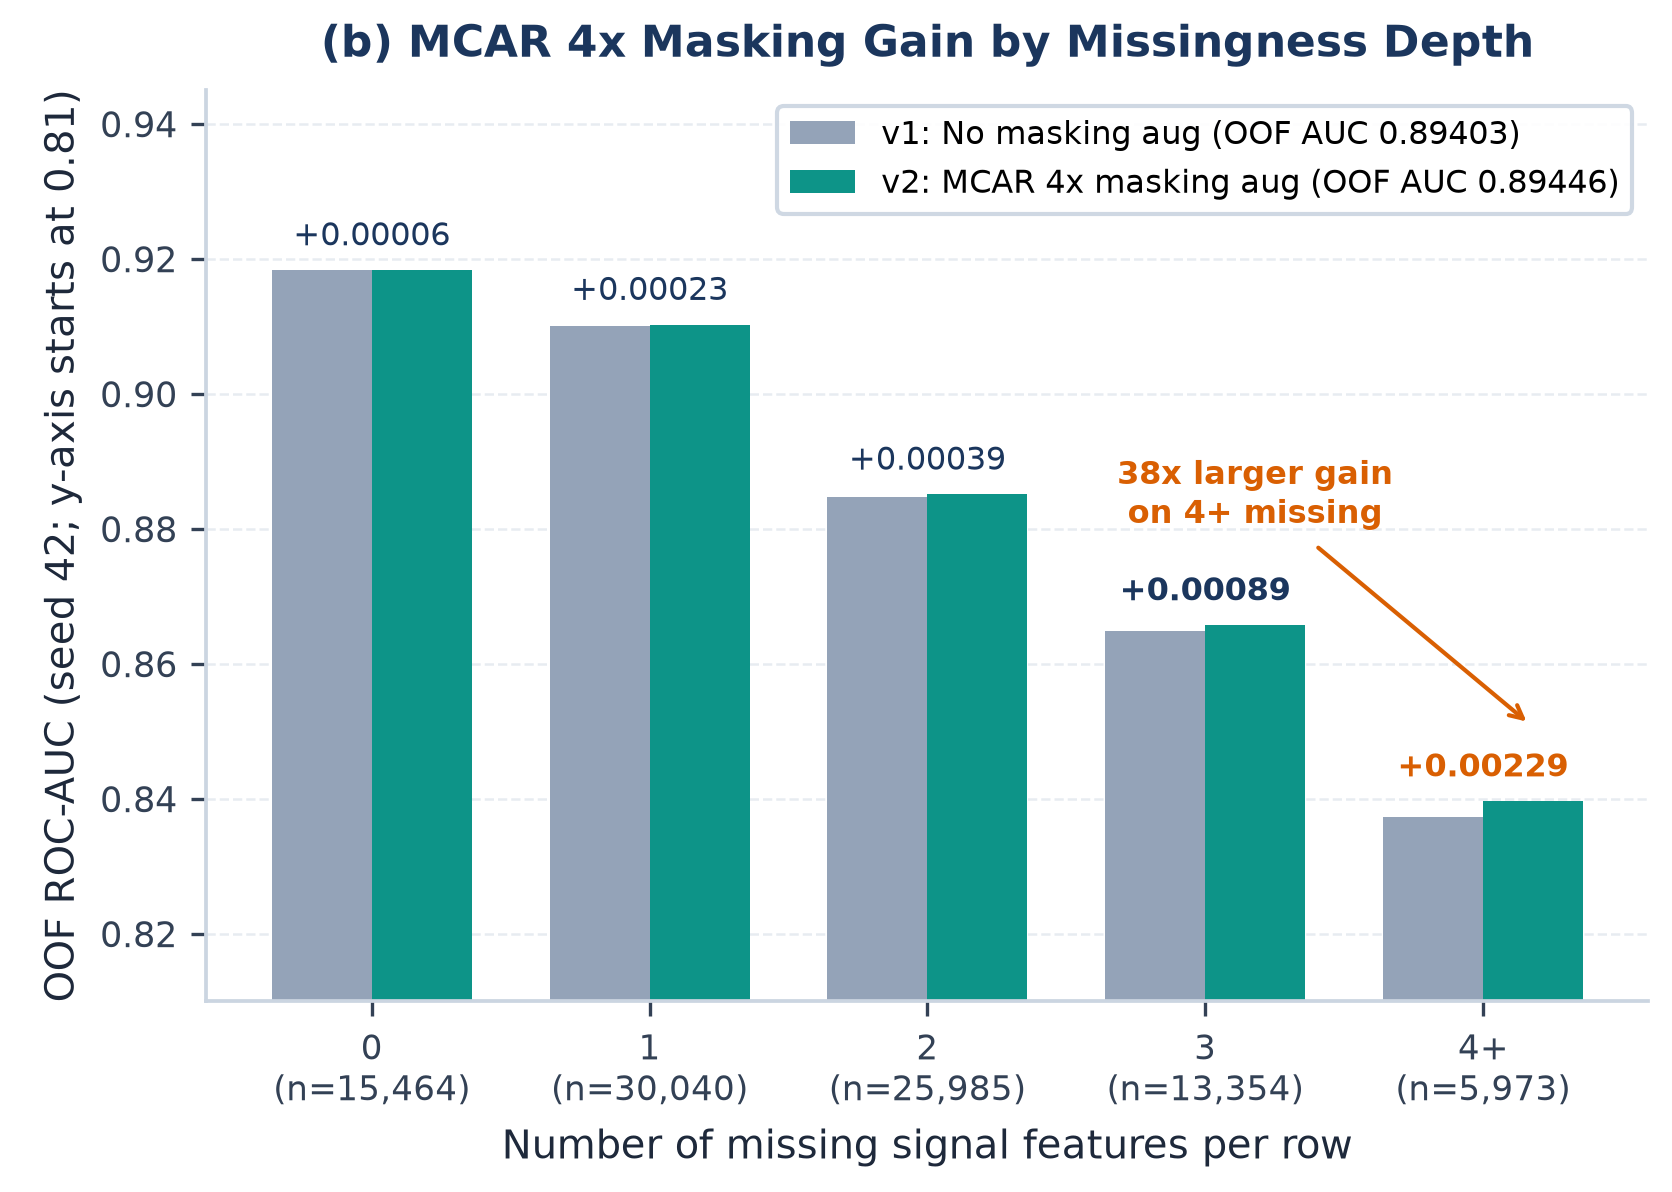
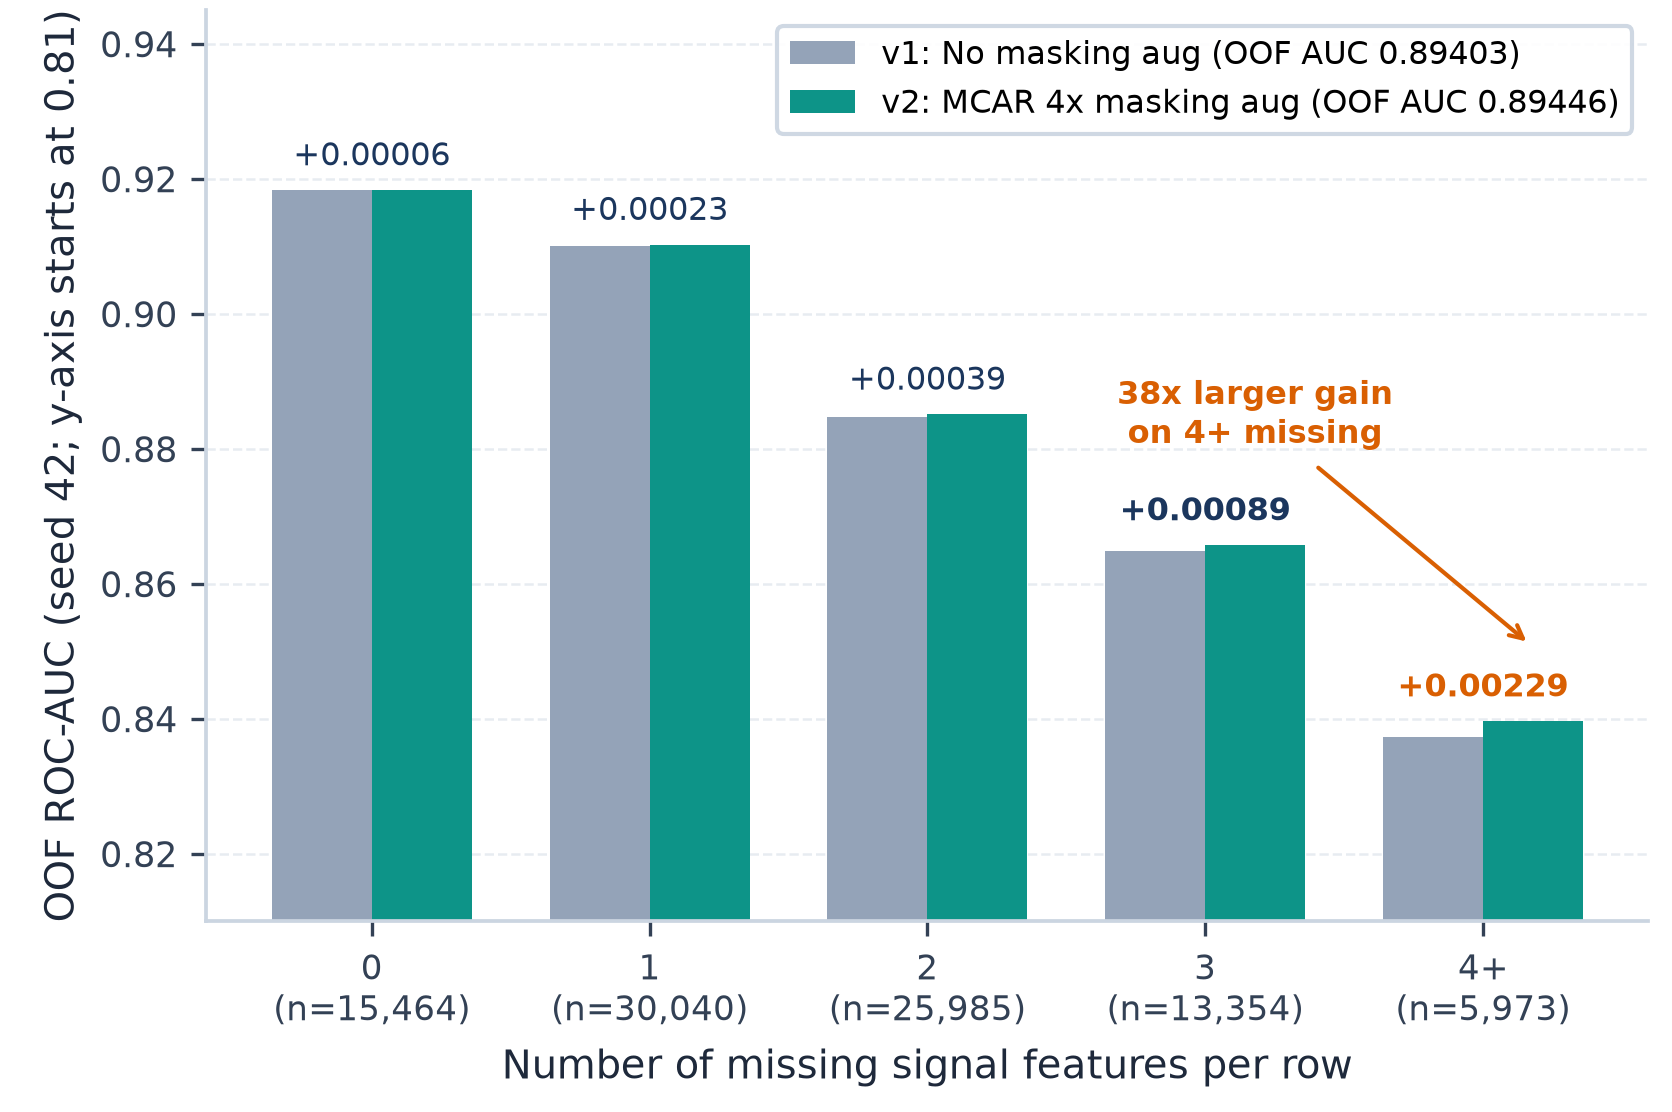
Fix numbers in the merged T1/T2 review PRs, move notes to Report/notes
Task 1: flagged count 15,484 (59.81% of 25,889), drop the 0.3769 threshold,
remove unsupported cut-offs and the nine-players claim, restore the
class-neutral r sentence in the Fig 9 caption, crop the leftover "(b)" title.
Task 2: drop the first-release LightGBM row from the new-data table (pointer
to the failed-experiments table instead), drop the unverified fold std,
restore the full-page decision log.

diff --git a/Report/task1/task1.tex b/Report/task1/task1.tex
@@ -250,7 +250,7 @@ The final blend improves OOF ROC-AUC by 0.00019 over Model A (Table~\ref{tab:t1-
 \begin{figure}[H]
 \centering
 \includegraphics[width=0.62\linewidth]{fig_t1_masking_gain.png}
-\caption{OOF ROC-AUC with and without four masked copies (seed 42) by number of missing signal features per row; the gain grows from $+0.00006$ with no missing values to $+0.00229$ with four or more.}
+\caption{OOF ROC-AUC with and without four masked copies (seed 42) by number of missing signal features per row; the gain grows from $+0.00006$ with no missing values to $+0.00229$ with four or more. The ratio $r$ used by the bounds has the same uniform distribution in both classes (univariate AUC 0.5011), so the bounds add no label information by themselves.}
 \label{fig:t1-masking}
 \end{figure}
 
@@ -311,15 +311,15 @@ Masking at twice the observed missing rate & F2m 0.78115 vs 0.78144 & Over-maski
 
 \subsubsection{Domain Interpretation and Business Impact}
 
-\paragraph{Tiered anti-cheat operational architecture.} In live multiplayer game operations, an anti-cheat pipeline cannot operate as a single blunt binary decision point. The competition threshold (0.37264 / 0.3769) optimizes binary $F_2$, which yields an aggressive test flag rate of 59.81\% (15,359 accounts). Automatically banning nearly 60\% of the active player base is commercially unviable and would cause catastrophic player attrition due to inevitable false positives. Instead, this model serves as an operational \emph{Tier-1 statistical pre-filter}. Flagged accounts are routed into graduated mitigation tiers:
+\paragraph{Tiered anti-cheat operational architecture.} In live multiplayer game operations, an anti-cheat pipeline cannot operate as a single blunt binary decision point. The competition threshold (0.37264) optimizes binary $F_2$, which yields an aggressive test flag rate of 59.81\% (15{,}484 of 25{,}889 accounts). Automatically banning nearly 60\% of the active player base is commercially unviable and would cause catastrophic player attrition due to inevitable false positives. Instead, this model serves as an operational \emph{Tier-1 statistical pre-filter}. Flagged accounts are routed into graduated mitigation tiers:
 
-\textbf{(1) Soft containment (shadow quarantine):} Suspected accounts with borderline scores (e.g., 0.38--0.55) are silently routed to low-trust matchmaking pools where they only compete against other high-risk players, protecting the broader player base without alerting cheat developers.
+\textbf{(1) Soft containment (shadow quarantine):} Accounts whose scores sit just above the threshold are silently routed to low-trust matchmaking pools where they only compete against other high-risk players, protecting the broader player base without alerting cheat developers.
 
 \textbf{(2) Dynamic friction challenges:} Flagged players encounter progressive friction gates, such as out-of-band mobile verification challenges or behavioral CAPTCHAs before queuing into ranked matches.
 
-\textbf{(3) High-priority forensic triage:} Accounts exceeding higher confidence thresholds (e.g., score $> 0.70$) are prioritized for forensic telemetry extraction, deep server-side replay inspection, and expedited review by the human investigation team.
+\textbf{(3) High-priority forensic triage:} Accounts above a stricter second threshold, set from the review team's capacity, are prioritized for forensic telemetry extraction, deep server-side replay inspection, and expedited review by the human investigation team.
 
-\paragraph{Asymmetric cost-benefit trade-off.} The choice of binary $F_2$ ($\beta = 2$) reflects the fundamental economic reality of competitive games: the cost of a false negative (failing to catch a cheater) vastly exceeds the friction of a false positive within a tiered architecture. A single undetected cheater degrades the integrity of a match for up to nine other players, driving negative viral sentiment, diminished trust in matchmaking, and long-term player churn that directly damages player lifetime value (LTV). Conversely, when flagged accounts undergo progressive verification rather than immediate irreversible bans, the operational cost of a false positive is minimized to minor temporary latency. Weighting recall twice as heavily as precision directly aligns model optimization with long-term player retention.
+\paragraph{Asymmetric cost-benefit trade-off.} The choice of binary $F_2$ ($\beta = 2$) reflects the fundamental economic reality of competitive games: the cost of a false negative (failing to catch a cheater) vastly exceeds the friction of a false positive within a tiered architecture. A single undetected cheater degrades every match they join, driving negative viral sentiment, diminished trust in matchmaking, and long-term player churn that directly damages player lifetime value (LTV). Conversely, when flagged accounts undergo progressive verification rather than immediate irreversible bans, the operational cost of a false positive is minimized to minor temporary latency. Weighting recall twice as heavily as precision directly aligns model optimization with long-term player retention.
 
 \paragraph{Operational drift and telemetry health monitoring.} Production deployment introduces risks from game client patches, network telemetry anomalies, and evolving cheat methods. As demonstrated by the missingness ablation (Figure~\ref{fig:t1-missauc}), model discrimination is highly dependent on key account indicators: missing two or more primary features causes OOF ROC-AUC to drop sharply from 0.922 to 0.831. If a client patch inadvertently corrupts or delays the logging of \feat{reports_received} or \feat{crosshair_placement}, the pre-filter's predictive capacity degrades immediately. A live deployment must therefore track feature missingness rates, distribution drift, and calibration across client versions in real-time, falling back to bound-based imputation and masking-augmented inference when telemetry degradation is detected.
 

diff --git a/Report/task2/task2.tex b/Report/task2/task2.tex
@@ -145,7 +145,7 @@ To handle label noise, we assume that the observed label $\tilde y$ equals the l
 \subsubsection{Evaluation and Results}
 \label{sec:t2-eval}
 
-The score is $\text{macro F1}=\frac14\sum_{k=0}^{3}\frac{2\,\text{TP}_k}{2\,\text{TP}_k+\text{FP}_k+\text{FN}_k}$. Table~\ref{tab:t2-results} lists the out-of-fold macro F1 of the baseline, each component, and the final prediction.
+The score is $\text{macro F1}=\frac14\sum_{k=0}^{3}\frac{2\,\text{TP}_k}{2\,\text{TP}_k+\text{FP}_k+\text{FN}_k}$. Table~\ref{tab:t2-results} lists the out-of-fold macro F1 of each component and of the final prediction. The tuned LightGBM baseline (0.7524) was measured on the first data release, so it appears in Table~\ref{tab:t2-failed} instead and is not compared with these numbers.
 
 \begin{table}[H]\centering\small
 \caption{Out-of-fold macro F1 on the re-released Task 2 data (5 folds, seed 42, no \texttt{player\_id}).}\label{tab:t2-results}
@@ -153,7 +153,6 @@ The score is $\text{macro F1}=\frac14\sum_{k=0}^{3}\frac{2\,\text{TP}_k}{2\,\tex
 \toprule
 \textbf{Model (new data)} & \textbf{OOF macro F1} & \textbf{Difference to EM-NB alone} \\
 \midrule
-Baseline (Tuned LightGBM) & 0.75240 & $-0.00526$ \\
 MLP (weight 0.05) & 0.75227 & $-0.00539$ \\
 Spline logistic regression (0.08) & 0.75468 & $-0.00298$ \\
 EM histogram Naive Bayes (0.87) & 0.75766 & reference \\
@@ -163,13 +162,13 @@ Blend 0.87 / 0.08 / 0.05, \texttt{argmax} & 0.75798 & $+0.00032$ \\
 \end{tabular}
 \end{table}
 
-The Naive Bayes model alone reaches 0.75766 (per fold 0.7548--0.7617; three seeds 0.7577--0.7582). The two discriminative models are individually worse by 0.003--0.005 but make different mistakes, so the 0.87/0.08/0.05 blend adds 0.00032 over Naive Bayes alone, and the affine rule, which changes 2{,}056 of the 104{,}000 OOF predictions (1.98\%), adds a further 0.00028. The final pipeline reaches an OOF macro F1 of 0.75826 with high fold-to-fold stability (fold mean $0.7583 \pm 0.0026$). All numbers in this table come from the re-released data; the experiments of the failed-experiments table and the decision log are labelled ``first release'' or ``new data'' row by row, and the two releases must not be compared absolutely, because the rows were regenerated. The public leaderboard agrees in direction. On the first data release, replacing the plain Naive Bayes in Task~2 by the blend and the rule raised the public score from 0.71965 to 0.71999 (\texttt{sub\_v16b} $\to$ \texttt{sub\_v18a}), a gain of 0.00034 on the whole submission, or about 0.0017 of Task~2 macro F1 at a task weight of 0.2. The submission that this report describes, with the same Task~2 model, scored 0.87351 on the public leaderboard.
+The Naive Bayes model alone reaches 0.75766 (per fold 0.7548--0.7617; three seeds 0.7577--0.7582). The two discriminative models are individually worse by 0.003--0.005 but make different mistakes, so the 0.87/0.08/0.05 blend adds 0.00032 over Naive Bayes alone, and the affine rule, which changes 2{,}056 of the 104{,}000 OOF predictions (1.98\%), adds a further 0.00028. The final pipeline reaches an OOF macro F1 of 0.75826. All numbers in this table come from the re-released data; the experiments of the failed-experiments table and the decision log are labelled ``first release'' or ``new data'' row by row, and the two releases must not be compared absolutely, because the rows were regenerated. The public leaderboard agrees in direction. On the first data release, replacing the plain Naive Bayes in Task~2 by the blend and the rule raised the public score from 0.71965 to 0.71999 (\texttt{sub\_v16b} $\to$ \texttt{sub\_v18a}), a gain of 0.00034 on the whole submission, or about 0.0017 of Task~2 macro F1 at a task weight of 0.2. The submission that this report describes, with the same Task~2 model, scored 0.87351 on the public leaderboard.
 
 \paragraph{Decision log.} Figure~\ref{fig:t2-decision-log} lists every Task~2 experiment, with the metric each number measures. The rows are in \texttt{data/decision\_log\_t2.csv}.
 
-\begin{figure}[H]
+\begin{figure}[p]
 \centering
-\includegraphics[width=\linewidth,height=0.68\textheight,keepaspectratio]{decision_log_t2.pdf}
+\includegraphics[width=\linewidth,height=0.85\textheight,keepaspectratio]{decision_log_t2.pdf}
 \caption{Task 2 decision log: change in score (one panel per metric family) per experiment, kept versus dropped versus rule-excluded. Green = kept, grey = dropped, red hatched = excluded by the competition rules.}
 \label{fig:t2-decision-log}
 \end{figure}
